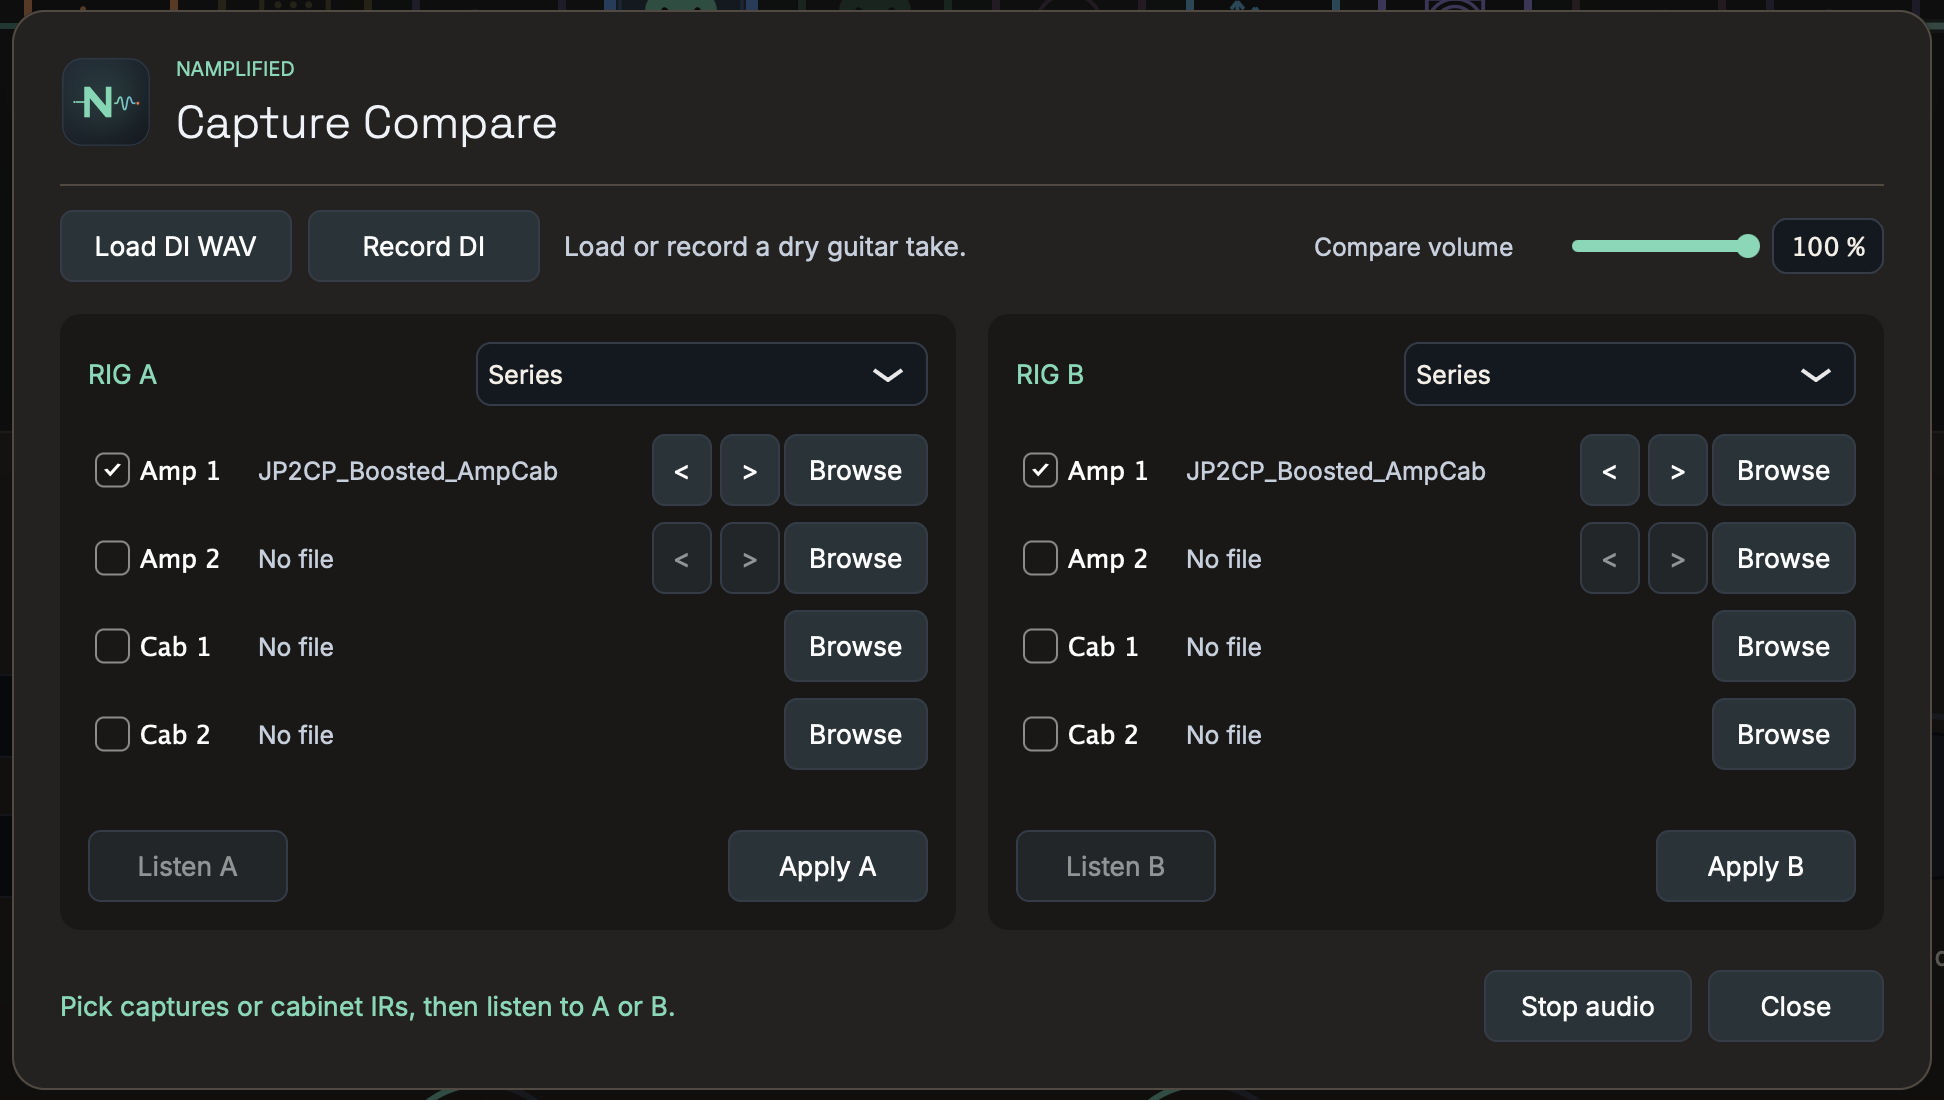
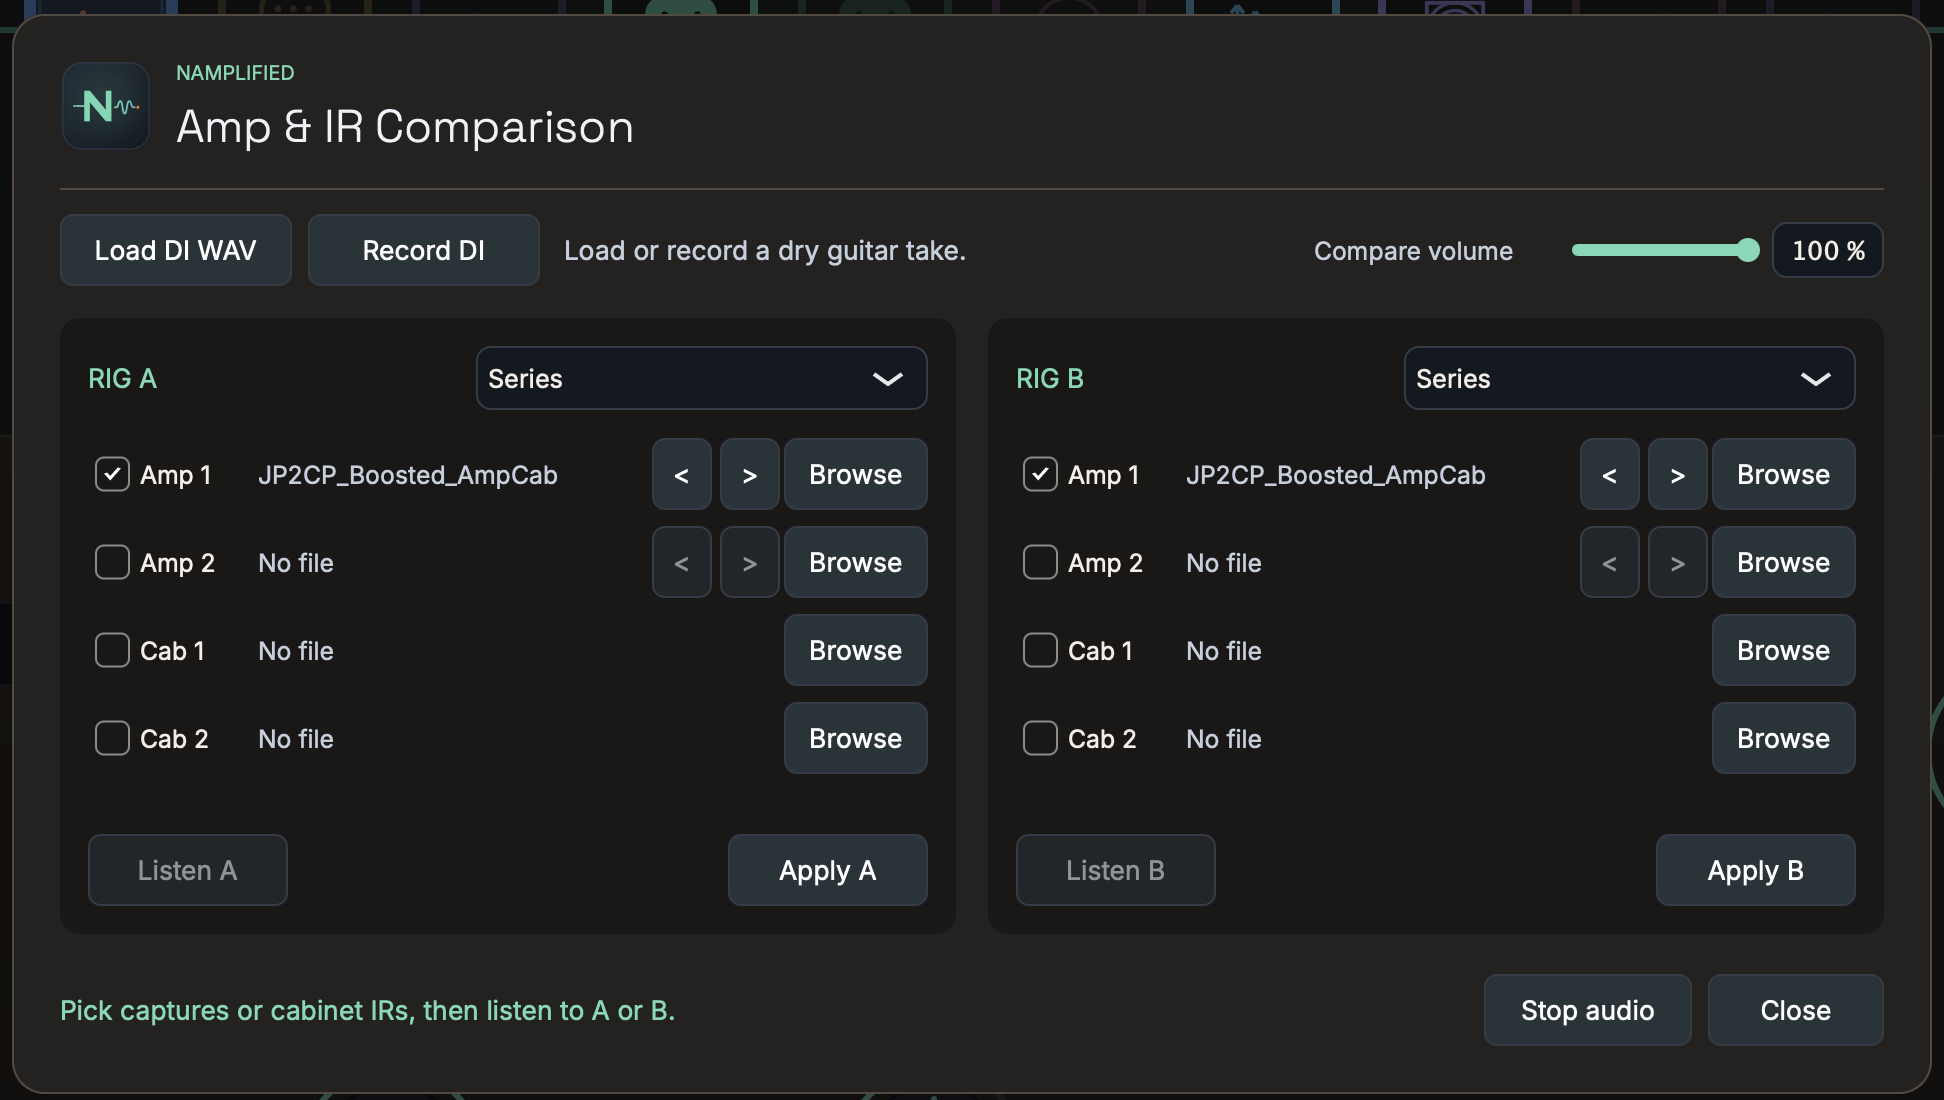
Publish macOS install guide and refresh comparison screenshot

diff --git a/index.html b/index.html
@@ -11,7 +11,7 @@
 <body>
 <header class="wrap">
 <a class="brand" href="./"><img src="./assets/icon.svg" width="34" height="34" alt="">NAMplified</a>
-<nav aria-label="Main navigation"><a href="./index.html" aria-current="page">Home</a><a href="./credits.html">Credits</a><a href="./about.html">About Me</a><a href="./download.html">Download</a>
+<nav aria-label="Main navigation"><a href="./index.html" aria-current="page">Home</a><a href="./credits.html">Credits</a><a href="./about.html">About Me</a><a href="./download.html">Download &amp; Install</a>
 <a href="https://github.com/sedosa-guitar/namplified" title="NAMplified on GitHub" aria-label="NAMplified on GitHub" style="display: inline-flex; align-items: center">
 <svg aria-hidden="true" width="22" height="22" viewBox="0 0 16 16" fill="currentColor">
 <path d="M8 0C3.58 0 0 3.58 0 8c0 3.54 2.29 6.53 5.47 7.59.4.07.55-.17.55-.38 0-.19-.01-.82-.01-1.49-2.01.37-2.53-.49-2.69-.94-.09-.23-.48-.94-.82-1.13-.28-.15-.68-.52-.01-.53.63-.01 1.08.58 1.23.82.72 1.21 1.87.87 2.33.66.07-.52.28-.87.51-1.07-1.78-.2-3.64-.89-3.64-3.95 0-.87.31-1.59.82-2.15-.08-.2-.36-1.02.08-2.12 0 0 .67-.21 2.2.82a7.65 7.65 0 0 1 4 0c1.53-1.04 2.2-.82 2.2-.82.44 1.1.16 1.92.08 2.12.51.56.82 1.27.82 2.15 0 3.07-1.87 3.75-3.65 3.95.29.25.54.73.54 1.48 0 1.07-.01 1.93-.01 2.2 0 .21.15.46.55.38A8 8 0 0 0 16 8c0-4.42-3.58-8-8-8Z"/>
@@ -33,10 +33,10 @@
 <ul class="wrap highlights" aria-label="NAMplified features">
   <li><a href="#nam-slots"><strong>Three NAM slots</strong><span>Load two amp captures and put a captured overdrive or boost in front of them.</span><img src="./assets/namplified-series-amp1.png" alt="Signal chain with the pedal block before both NAM amp slots"></a></li>
   <li><a href="#routing"><strong>Frequency split</strong><span>Send lows to Amp 1 and highs to Amp 2. Give each amp its own cab IR in parallel.</span><img src="./assets/new-paired.png" alt="Parallel amp paths with a separate cabinet IR on each path"></a></li>
-  <li><a href="#rig-shootout"><strong>Rig Shootout</strong><span>Record one riff, step through captures with Previous and Next, and compare two rigs at matched levels.</span><img src="./assets/namplified-rig-shootout.png" alt="Rig A and Rig B side by side in Capture Compare"></a></li>
+  <li><a href="#rig-shootout"><strong>Rig Shootout</strong><span>Record one riff, step through captures with Previous and Next, and compare two rigs at matched levels.</span><img src="./assets/namplified-rig-shootout.png?v=amp-ir-comparison" alt="Rig A and Rig B side by side in Amp &amp; IR Comparison"></a></li>
 </ul>
 <figure class="screen wrap">
-  <img src="./assets/namplified-series-amp1.png" width="3188" height="1842" alt="NAMplified in Series mode with Amp 1 controls and the Capture Compare icon in the toolbar">
+  <img src="./assets/namplified-series-amp1.png" width="3188" height="1842" alt="NAMplified in Series mode with Amp 1 controls and the Amp &amp; IR Comparison icon in the toolbar">
 </figure>
 <section id="nam-slots" class="wrap rig">
 <h2>Three NAM slots</h2>
@@ -65,10 +65,10 @@
 <section id="rig-shootout" class="wrap rig">
 <h2>Rig Shootout</h2>
 <p class="lede">Play the riff once. Hear it through two amp and cab setups at matched levels.</p>
-<p>Open Capture Compare next to Preset Builder, then record a dry take or load a DI WAV. Each rig can use up to two NAM captures and two cabinet IRs in series or parallel. Swap captures with Previous and Next while the riff loops.</p>
+<p>Open Amp &amp; IR Comparison next to Preset Builder, then record a dry take or load a DI WAV. Each rig can use up to two NAM captures and two cabinet IRs in series or parallel. Swap captures with Previous and Next while the riff loops.</p>
 <p>Switch between Listen A and Listen B, set a shared playback level with Compare volume, then apply the winner to your current chain.</p>
 <figure class="cabinet-preview">
-  <a class="frame" href="./assets/namplified-rig-shootout.png"><img src="./assets/namplified-rig-shootout.png" width="1944" height="1100" loading="lazy" alt="Capture Compare with Rig A and Rig B side by side, DI controls, and a shared volume slider"></a>
+  <a class="frame" href="./assets/namplified-rig-shootout.png?v=amp-ir-comparison"><img src="./assets/namplified-rig-shootout.png?v=amp-ir-comparison" width="1944" height="1100" loading="lazy" alt="Amp &amp; IR Comparison with Rig A and Rig B side by side, DI controls, and a shared volume slider"></a>
 </figure>
 </section>
 <section id="cabs" class="wrap rig cabinet">

diff --git a/download.html b/download.html
@@ -11,7 +11,7 @@
 <body>
 <header class="wrap">
 <a class="brand" href="./"><img src="./assets/icon.svg" width="34" height="34" alt="">NAMplified</a>
-<nav aria-label="Main navigation"><a href="./index.html">Home</a><a href="./credits.html">Credits</a><a href="./about.html">About Me</a><a href="./download.html" aria-current="page">Download</a>
+<nav aria-label="Main navigation"><a href="./index.html">Home</a><a href="./credits.html">Credits</a><a href="./about.html">About Me</a><a href="./download.html" aria-current="page">Download &amp; Install</a>
 <a href="https://github.com/sedosa-guitar/namplified" title="NAMplified on GitHub" aria-label="NAMplified on GitHub" style="display: inline-flex; align-items: center">
 <svg aria-hidden="true" width="22" height="22" viewBox="0 0 16 16" fill="currentColor">
 <path d="M8 0C3.58 0 0 3.58 0 8c0 3.54 2.29 6.53 5.47 7.59.4.07.55-.17.55-.38 0-.19-.01-.82-.01-1.49-2.01.37-2.53-.49-2.69-.94-.09-.23-.48-.94-.82-1.13-.28-.15-.68-.52-.01-.53.63-.01 1.08.58 1.23.82.72 1.21 1.87.87 2.33.66.07-.52.28-.87.51-1.07-1.78-.2-3.64-.89-3.64-3.95 0-.87.31-1.59.82-2.15-.08-.2-.36-1.02.08-2.12 0 0 .67-.21 2.2.82a7.65 7.65 0 0 1 4 0c1.53-1.04 2.2-.82 2.2-.82.44 1.1.16 1.92.08 2.12.51.56.82 1.27.82 2.15 0 3.07-1.87 3.75-3.65 3.95.29.25.54.73.54 1.48 0 1.07-.01 1.93-.01 2.2 0 .21.15.46.55.38A8 8 0 0 0 16 8c0-4.42-3.58-8-8-8Z"/>
@@ -25,8 +25,35 @@
   <p class="lede">Build your guitar rig with Neural Amp Modeler captures, cabinet impulse responses, and effects. Play through the standalone app or record with the plug-in in your DAW.</p>
   <ul class="formats" aria-label="Included formats"><li>Standalone</li><li>Audio Unit</li><li>VST3</li></ul>
   <p><strong>Requirements:</strong> Apple Silicon Mac with macOS 14.4 or later.</p>
-  <p>The ZIP includes all three formats and an HTML installation guide.</p>
+  <p>The ZIP includes all three formats and an offline copy of the <a href="#installation">installation instructions</a>.</p>
   <p><strong>Public download coming soon.</strong></p>
+</section>
+<section id="installation" class="wrap rig" aria-labelledby="installation-heading">
+  <h2 id="installation-heading">Installation on macOS</h2>
+  <p>Unzip the download in Finder and choose the format you want to install.</p>
+  <section>
+    <h3>Standalone</h3>
+    <p>Drag <strong>NAMplified.app</strong> into <strong>Applications</strong> and open it from there.</p>
+    <p>On first launch, allow microphone access so NAMplified can receive your guitar signal.
+    In <strong>Audio / MIDI Settings</strong>, select your interface, guitar input channel, and output.
+    With an interface or headphones connected, uncheck <strong>Mute audio input</strong>.</p>
+    <p>If macOS blocks the first launch and you trust the download source:</p>
+    <ol>
+      <li>Dismiss the warning.</li>
+      <li>Open <strong>System Settings → Privacy &amp; Security</strong>.</li>
+      <li>Under Security, click <strong>Open Anyway</strong> and confirm.</li>
+    </ol>
+    <p>If the button is missing, try opening the app again and return to Privacy &amp; Security. <a href="https://support.apple.com/en-us/102445">Apple Support</a></p>
+  </section>
+  <section>
+    <h3>VST3 and Audio Unit</h3>
+    <p>Quit your DAW. In Finder, press <strong>⌘ ⇧ G</strong> to open the destination folder, then copy the plug-in into it.</p>
+    <ul>
+      <li><strong>VST3</strong> · Copy <code>NAMplified.vst3</code> to <code>/Library/Audio/Plug-Ins/VST3</code>.</li>
+      <li><strong>AU</strong> · Copy <code>NAMplified.component</code> to <code>/Library/Audio/Plug-Ins/Components</code>.</li>
+    </ul>
+    <p>Reopen your DAW and look for <strong>NAMplified</strong>. If it does not appear, rescan plug-ins.</p>
+  </section>
 </section>
 </main>
 <footer class="wrap" style="flex-wrap: wrap">

diff --git a/about.html b/about.html
@@ -11,7 +11,7 @@
 <body>
 <header class="wrap">
 <a class="brand" href="./"><img src="./assets/icon.svg" width="34" height="34" alt="">NAMplified</a>
-<nav aria-label="Main navigation"><a href="./index.html">Home</a><a href="./credits.html">Credits</a><a href="./about.html" aria-current="page">About Me</a><a href="./download.html">Download</a>
+<nav aria-label="Main navigation"><a href="./index.html">Home</a><a href="./credits.html">Credits</a><a href="./about.html" aria-current="page">About Me</a><a href="./download.html">Download &amp; Install</a>
 <a href="https://github.com/sedosa-guitar/namplified" title="NAMplified on GitHub" aria-label="NAMplified on GitHub" style="display: inline-flex; align-items: center">
 <svg aria-hidden="true" width="22" height="22" viewBox="0 0 16 16" fill="currentColor">
 <path d="M8 0C3.58 0 0 3.58 0 8c0 3.54 2.29 6.53 5.47 7.59.4.07.55-.17.55-.38 0-.19-.01-.82-.01-1.49-2.01.37-2.53-.49-2.69-.94-.09-.23-.48-.94-.82-1.13-.28-.15-.68-.52-.01-.53.63-.01 1.08.58 1.23.82.72 1.21 1.87.87 2.33.66.07-.52.28-.87.51-1.07-1.78-.2-3.64-.89-3.64-3.95 0-.87.31-1.59.82-2.15-.08-.2-.36-1.02.08-2.12 0 0 .67-.21 2.2.82a7.65 7.65 0 0 1 4 0c1.53-1.04 2.2-.82 2.2-.82.44 1.1.16 1.92.08 2.12.51.56.82 1.27.82 2.15 0 3.07-1.87 3.75-3.65 3.95.29.25.54.73.54 1.48 0 1.07-.01 1.93-.01 2.2 0 .21.15.46.55.38A8 8 0 0 0 16 8c0-4.42-3.58-8-8-8Z"/>

diff --git a/credits.html b/credits.html
@@ -11,7 +11,7 @@
 <body>
 <header class="wrap">
 <a class="brand" href="./"><img src="./assets/icon.svg" width="34" height="34" alt="">NAMplified</a>
-<nav aria-label="Main navigation"><a href="./index.html">Home</a><a href="./credits.html" aria-current="page">Credits</a><a href="./about.html">About Me</a><a href="./download.html">Download</a>
+<nav aria-label="Main navigation"><a href="./index.html">Home</a><a href="./credits.html" aria-current="page">Credits</a><a href="./about.html">About Me</a><a href="./download.html">Download &amp; Install</a>
 <a href="https://github.com/sedosa-guitar/namplified" title="NAMplified on GitHub" aria-label="NAMplified on GitHub" style="display: inline-flex; align-items: center">
 <svg aria-hidden="true" width="22" height="22" viewBox="0 0 16 16" fill="currentColor">
 <path d="M8 0C3.58 0 0 3.58 0 8c0 3.54 2.29 6.53 5.47 7.59.4.07.55-.17.55-.38 0-.19-.01-.82-.01-1.49-2.01.37-2.53-.49-2.69-.94-.09-.23-.48-.94-.82-1.13-.28-.15-.68-.52-.01-.53.63-.01 1.08.58 1.23.82.72 1.21 1.87.87 2.33.66.07-.52.28-.87.51-1.07-1.78-.2-3.64-.89-3.64-3.95 0-.87.31-1.59.82-2.15-.08-.2-.36-1.02.08-2.12 0 0 .67-.21 2.2.82a7.65 7.65 0 0 1 4 0c1.53-1.04 2.2-.82 2.2-.82.44 1.1.16 1.92.08 2.12.51.56.82 1.27.82 2.15 0 3.07-1.87 3.75-3.65 3.95.29.25.54.73.54 1.48 0 1.07-.01 1.93-.01 2.2 0 .21.15.46.55.38A8 8 0 0 0 16 8c0-4.42-3.58-8-8-8Z"/>
